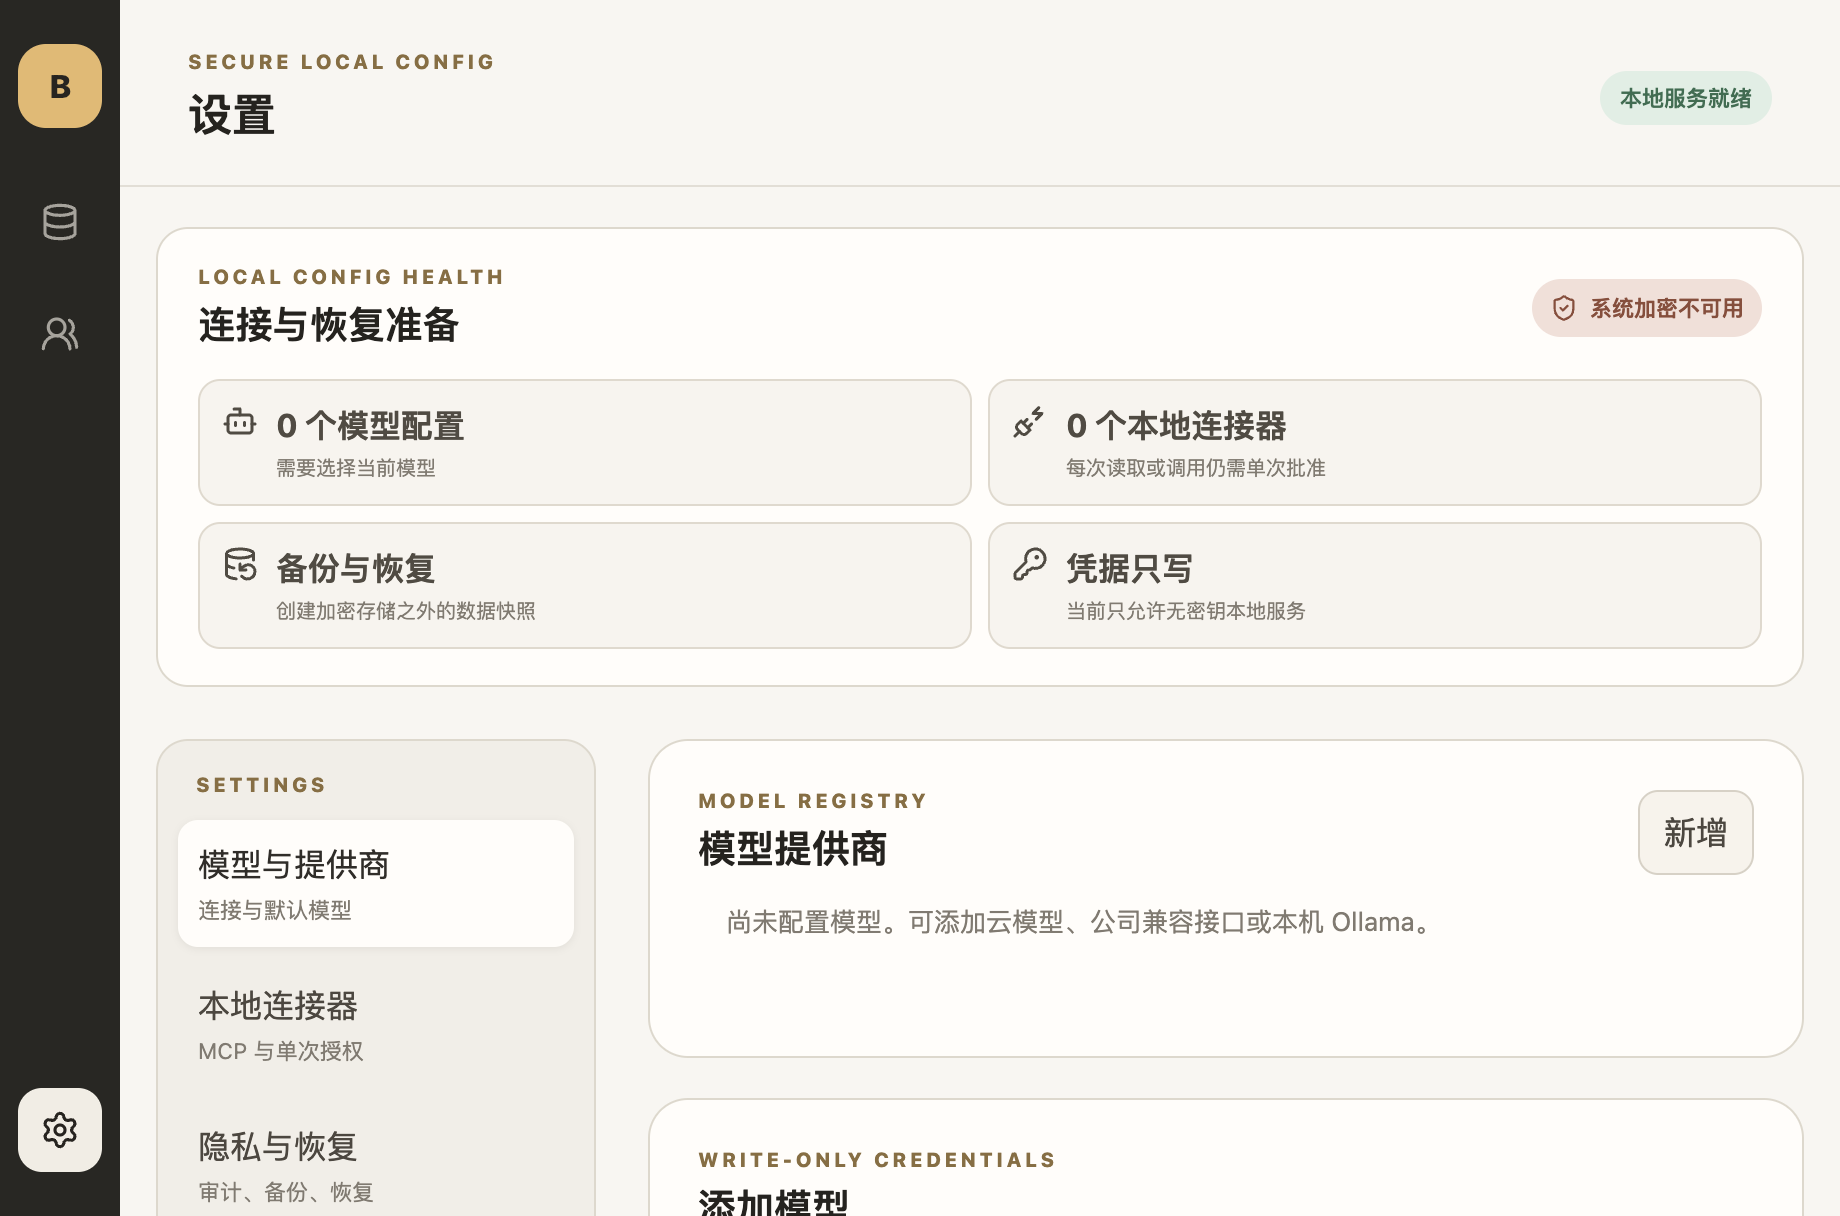
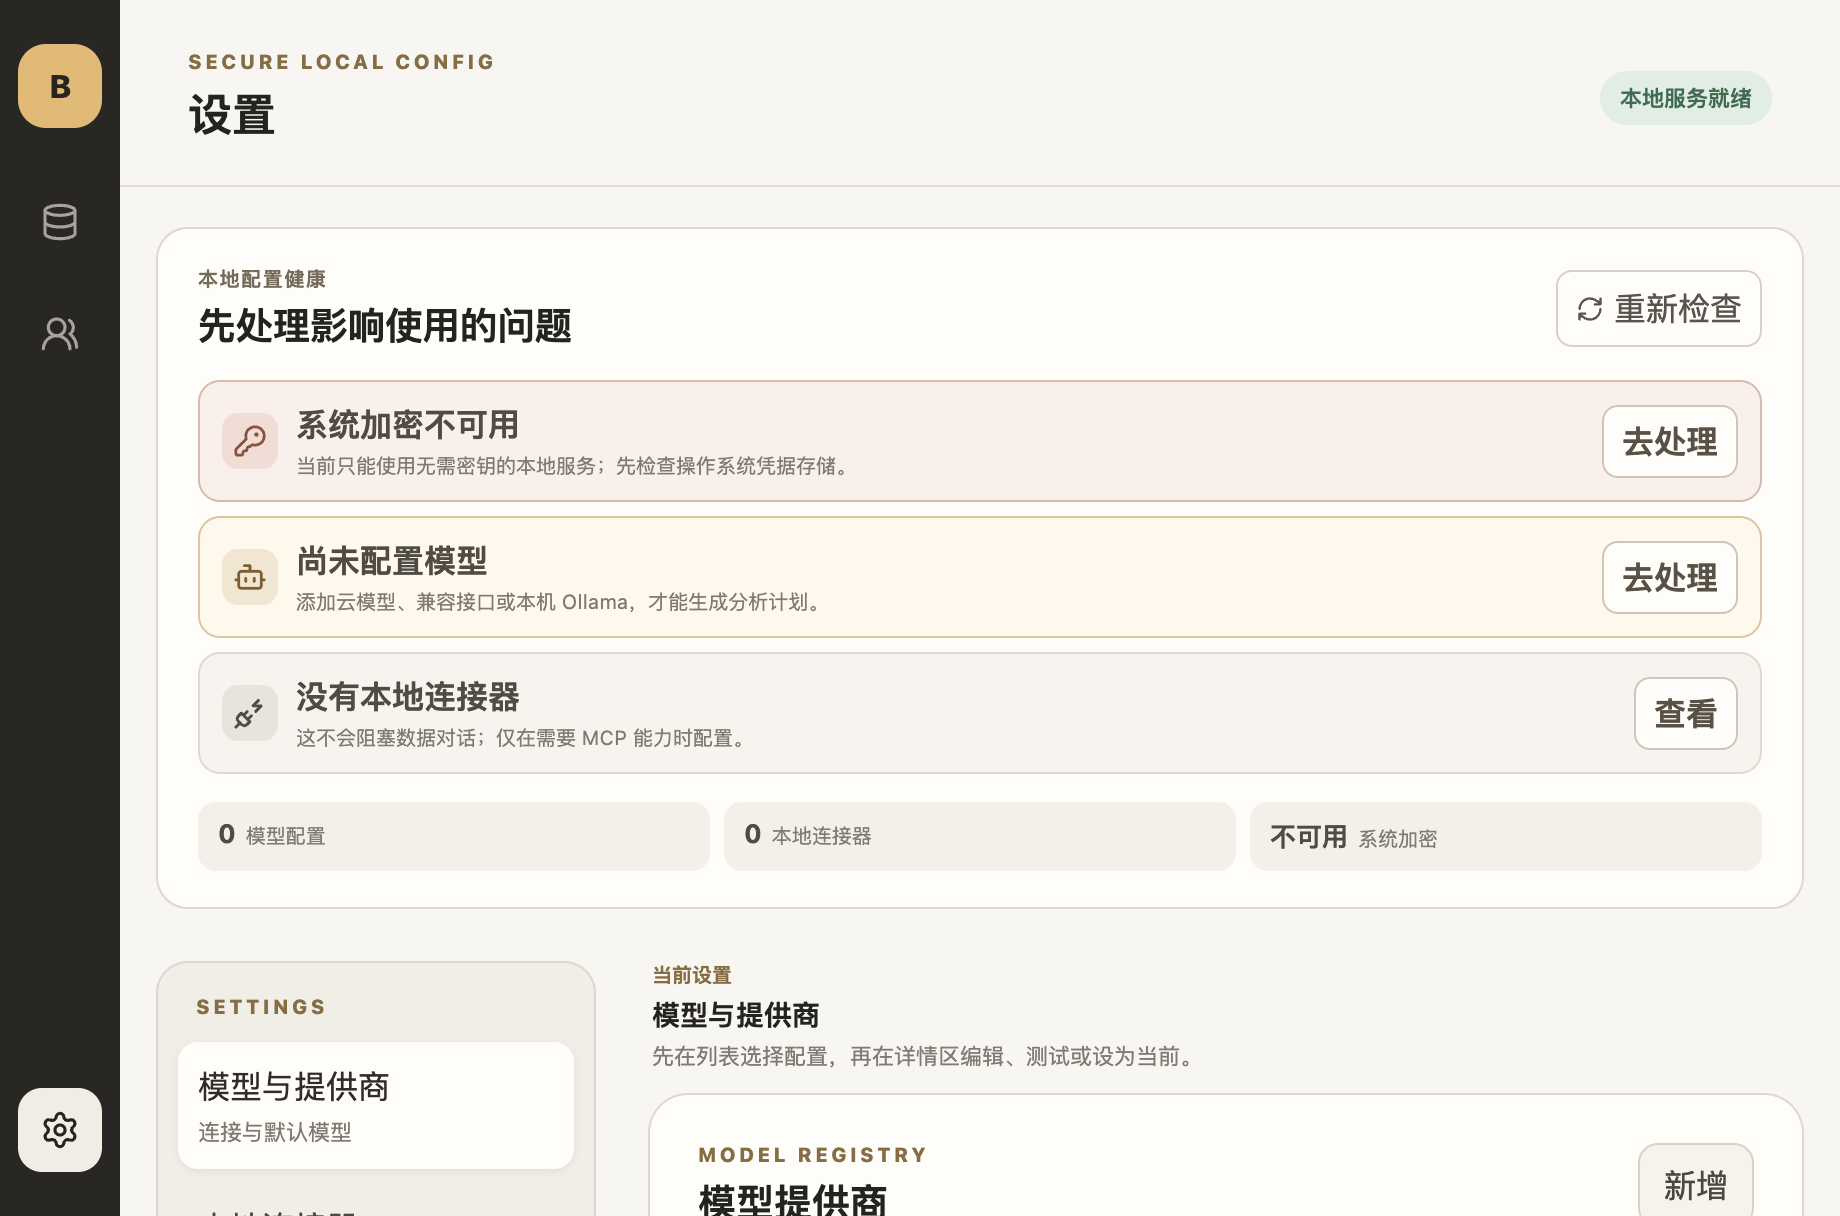
turn settings into recovery center

diff --git a/apps/desktop/src/renderer/SettingsHealthOverview.tsx b/apps/desktop/src/renderer/SettingsHealthOverview.tsx
@@ -1,35 +1,37 @@
-import { Bot, DatabaseBackup, KeyRound, PlugZap, ShieldCheck } from "lucide-react";
+import { Bot, KeyRound, PlugZap, RefreshCw, ShieldCheck } from "lucide-react";
 import { useEffect, useState } from "react";
 import type { McpConnectionRegistryState, ProviderRegistryState } from "../shared/product-api.js";
+import { deriveSettingsHealth, type SettingsHealthSection } from "./settings-health.js";
 
-type SettingsSection = "models" | "connectors" | "privacy";
-
-export function SettingsHealthOverview({ onNavigate }: { readonly onNavigate: (section: SettingsSection) => void }) {
+export function SettingsHealthOverview({ onNavigate }: { readonly onNavigate: (section: SettingsHealthSection) => void }) {
   const [providers, setProviders] = useState<ProviderRegistryState>();
   const [connections, setConnections] = useState<McpConnectionRegistryState>();
   const [error, setError] = useState<string>();
+  const [loading, setLoading] = useState(true);
 
-  useEffect(() => {
-    let active = true;
-    void Promise.all([window.bubu.providers.list(), window.bubu.mcp.list()]).then(([providerState, connectionState]) => {
-      if (!active) return;
+  async function load(): Promise<void> {
+    setLoading(true);
+    setError(undefined);
+    try {
+      const [providerState, connectionState] = await Promise.all([window.bubu.providers.list(), window.bubu.mcp.list()]);
       setProviders(providerState);
       setConnections(connectionState);
-    }).catch((reason: unknown) => {
-      if (active) setError(reason instanceof Error ? reason.message : "读取本地配置状态失败");
-    });
-    return () => { active = false; };
-  }, []);
+    } catch (reason) {
+      setError(reason instanceof Error ? reason.message : "读取本地配置状态失败");
+    } finally {
+      setLoading(false);
+    }
+  }
+
+  useEffect(() => { void load(); }, []);
 
   const encryptionAvailable = providers?.encryptionAvailable === true && connections?.encryptionAvailable === true;
+  const findings = deriveSettingsHealth({ encryptionAvailable, providerCount: providers?.providers.length ?? 0, hasActiveProvider: providers?.activeProviderId !== null && providers?.activeProviderId !== undefined, connectorCount: connections?.connections.length ?? 0 });
+  const navigateToFinding = (section: SettingsHealthSection | undefined) => { if (section) onNavigate(section); };
   return <section className="settings-health" aria-label="设置健康总览">
-    <header><div><p className="hero-kicker">LOCAL CONFIG HEALTH</p><h3>连接与恢复准备</h3></div><span className={encryptionAvailable ? "health-ready" : "health-warning"}><ShieldCheck size={14} />{encryptionAvailable ? "系统加密可用" : "系统加密不可用"}</span></header>
+    <header><div><p className="chat-context-label">本地配置健康</p><h3>先处理影响使用的问题</h3></div><button type="button" className="settings-health-refresh" onClick={() => void load()} disabled={loading}><RefreshCw size={14} />{loading ? "检查中" : "重新检查"}</button></header>
     {error && <p className="error-text">{error}</p>}
-    <div>
-      <button type="button" onClick={() => onNavigate("models")}><Bot size={18} /><span><strong>{providers?.providers.length ?? "—"} 个模型配置</strong><small>{providers?.activeProviderId ? "已有当前模型" : "需要选择当前模型"}</small></span></button>
-      <button type="button" onClick={() => onNavigate("connectors")}><PlugZap size={18} /><span><strong>{connections?.connections.length ?? "—"} 个本地连接器</strong><small>每次读取或调用仍需单次批准</small></span></button>
-      <button type="button" onClick={() => onNavigate("privacy")}><DatabaseBackup size={18} /><span><strong>备份与恢复</strong><small>创建加密存储之外的数据快照</small></span></button>
-      <div><KeyRound size={18} /><span><strong>凭据只写</strong><small>{encryptionAvailable ? "密钥可安全保存且无法读回" : "当前只允许无密钥本地服务"}</small></span></div>
-    </div>
+    {!loading && <ol className="settings-findings">{findings.map((finding) => <li className={`settings-finding settings-finding-${finding.severity}`} key={finding.id}><span>{finding.id === "provider" || finding.id === "active-provider" ? <Bot size={17} /> : finding.id === "connectors" ? <PlugZap size={17} /> : finding.id === "encryption" ? <KeyRound size={17} /> : <ShieldCheck size={17} />}</span><div><strong>{finding.title}</strong><small>{finding.detail}</small></div>{finding.section && <button type="button" onClick={() => navigateToFinding(finding.section)}>{finding.severity === "optional" ? "查看" : "去处理"}</button>}</li>)}</ol>}
+    <div className="settings-health-metrics"><span><strong>{providers?.providers.length ?? "—"}</strong>模型配置</span><span><strong>{connections?.connections.length ?? "—"}</strong>本地连接器</span><span><strong>{encryptionAvailable ? "可用" : "不可用"}</strong>系统加密</span></div>
   </section>;
 }

diff --git a/apps/desktop/src/renderer/styles.css b/apps/desktop/src/renderer/styles.css
@@ -338,15 +338,18 @@ td { max-width: 280px; overflow: hidden; text-overflow: ellipsis; color: #4d4841
 .settings-health { grid-column: 1 / -1; display: grid; gap: 14px; padding: 18px 20px; border: 1px solid #ded8cc; border-radius: 16px; background: #fffdf9; }
 .settings-health > header { display: flex; align-items: center; justify-content: space-between; gap: 18px; }
 .settings-health h3 { margin: 0; }
-.settings-health > header > span { display: inline-flex; align-items: center; gap: 6px; padding: 7px 9px; border-radius: 999px; font-size: 11px; font-weight: 700; }
-.settings-health .health-ready { color: #336d50; background: #dfeee4; }
-.settings-health .health-warning { color: #8e4b38; background: #f3dfd8; }
-.settings-health > div { display: grid; grid-template-columns: repeat(4, minmax(0, 1fr)); gap: 8px; }
-.settings-health > div > button, .settings-health > div > div { display: flex; align-items: flex-start; gap: 9px; min-width: 0; padding: 11px; border: 1px solid #e0d9cd; border-radius: 11px; text-align: left; color: #514b42; background: #f7f4ee; }
-.settings-health > div > button { cursor: pointer; }
-.settings-health > div > button:hover { border-color: #bcae98; background: #fffdf9; }
-.settings-health > div span { display: grid; gap: 3px; min-width: 0; }
-.settings-health > div small { font-size: 10px; line-height: 1.4; color: #817a70; }
+.settings-health-refresh { display: inline-flex; align-items: center; gap: 5px; min-height: 34px; padding: 7px 9px; border: 1px solid #d8d1c5; border-radius: 8px; color: #5b544b; background: #fffdf9; cursor: pointer; }
+.settings-findings { display: grid; gap: 7px; margin: 0; padding: 0; list-style: none; }
+.settings-finding { display: grid; grid-template-columns: 28px minmax(0, 1fr) auto; align-items: center; gap: 9px; padding: 10px 11px; border: 1px solid #e0d9cd; border-radius: 11px; color: #514b42; background: #f7f4ee; }
+.settings-finding > span { display: grid; place-items: center; width: 28px; height: 28px; border-radius: 8px; background: #e9e4db; }
+.settings-finding > div { display: grid; gap: 2px; min-width: 0; }
+.settings-finding small { font-size: 10px; line-height: 1.45; color: #817a70; }
+.settings-finding button { min-height: 32px; padding: 6px 9px; border: 1px solid #cfc5b7; border-radius: 8px; font-weight: 700; color: #5a5044; background: #fffdf9; cursor: pointer; }
+.settings-finding-blocker { border-color: #e0b7ac; background: #fbefeb; }.settings-finding-blocker > span { color: #914f3d; background: #f2dcd5; }
+.settings-finding-action { border-color: #ddc69f; background: #fff8eb; }.settings-finding-action > span { color: #805d27; background: #f2e5cf; }
+.settings-finding-ready { border-color: #bad0bf; background: #eef6ef; }.settings-finding-ready > span { color: #397052; background: #daeade; }
+.settings-health-metrics { display: grid; grid-template-columns: repeat(3, minmax(0, 1fr)); gap: 7px; }
+.settings-health-metrics span { display: flex; align-items: baseline; gap: 5px; padding: 8px 10px; border-radius: 9px; font-size: 10px; color: #817a70; background: #f3f0e9; }.settings-health-metrics strong { font-size: 13px; color: #514b42; }
 .recovery-guidance { display: grid; gap: 8px; padding: 14px; border-radius: 12px; background: #f1eee7; }
 .recovery-guidance ol { display: grid; gap: 5px; margin: 0; padding-left: 20px; color: #625c53; }
 .recovery-guidance p { margin: 0; color: #7a7165; }
@@ -356,6 +359,7 @@ td { max-width: 280px; overflow: hidden; text-overflow: ellipsis; color: #4d4841
 .settings-nav button small { font-size: 11px; color: #817a70; }
 .settings-nav .settings-nav-active { color: #302d28; background: #fffdf9; box-shadow: 0 1px 4px rgba(44,39,30,.08); }
 .settings-content { min-width: 0; }
+.settings-content-context { display: grid; gap: 3px; margin-bottom: 10px; padding: 0 2px; }.settings-content-context small { font-size: 10px; font-weight: 800; color: #8b6a39; }.settings-content-context strong { font-size: 14px; }.settings-content-context span { font-size: 11px; line-height: 1.45; color: #817a70; }
 .settings-content > .data-protection-panel { margin-top: 0; }
 .provider-list-panel, .provider-form { min-width: 0; padding: 24px; border: 1px solid #ded8cc; border-radius: 20px; background: #fffdf9; }
 .settings-section-header { display: flex; align-items: center; justify-content: space-between; gap: 16px; }
@@ -587,7 +591,7 @@ td { max-width: 280px; overflow: hidden; text-overflow: ellipsis; color: #4d4841
   .conversation { padding: 20px 18px; }
   .conversation-workbench { height: calc(100vh - 190px); min-height: 460px; }
   .dataset-summary h3 { font-size: 18px; }
-  .settings-health > div { grid-template-columns: repeat(2, minmax(0, 1fr)); }
+  .settings-health-metrics { grid-template-columns: repeat(3, minmax(0, 1fr)); }
 }
 
 @media (prefers-reduced-motion: reduce) {

diff --git a/apps/desktop/src/renderer/settings-health.ts b/apps/desktop/src/renderer/settings-health.ts
@@ -1,0 +1,19 @@
+export type SettingsHealthSection = "models" | "connectors" | "privacy";
+
+export interface SettingsHealthFinding {
+  readonly id: "encryption" | "provider" | "active-provider" | "connectors" | "ready";
+  readonly severity: "blocker" | "action" | "optional" | "ready";
+  readonly title: string;
+  readonly detail: string;
+  readonly section?: SettingsHealthSection;
+}
+
+export function deriveSettingsHealth(input: { readonly encryptionAvailable: boolean; readonly providerCount: number; readonly hasActiveProvider: boolean; readonly connectorCount: number }): readonly SettingsHealthFinding[] {
+  const findings: SettingsHealthFinding[] = [];
+  if (!input.encryptionAvailable) findings.push({ id: "encryption", severity: "blocker", title: "系统加密不可用", detail: "当前只能使用无需密钥的本地服务；先检查操作系统凭据存储。", section: "privacy" });
+  if (input.providerCount === 0) findings.push({ id: "provider", severity: "action", title: "尚未配置模型", detail: "添加云模型、兼容接口或本机 Ollama，才能生成分析计划。", section: "models" });
+  else if (!input.hasActiveProvider) findings.push({ id: "active-provider", severity: "action", title: "需要选择当前模型", detail: "已有配置但尚未指定用于新任务的模型。", section: "models" });
+  if (input.connectorCount === 0) findings.push({ id: "connectors", severity: "optional", title: "没有本地连接器", detail: "这不会阻塞数据对话；仅在需要 MCP 能力时配置。", section: "connectors" });
+  if (findings.length === 0) findings.push({ id: "ready", severity: "ready", title: "关键配置已就绪", detail: "当前模型、系统加密与本地连接器均可继续使用。" });
+  return findings;
+}

diff --git a/apps/desktop/src/renderer/settings-health.test.ts b/apps/desktop/src/renderer/settings-health.test.ts
@@ -1,0 +1,13 @@
+import { describe, expect, it } from "vitest";
+import { deriveSettingsHealth } from "./settings-health.js";
+
+describe("deriveSettingsHealth", () => {
+  it("orders blockers before required and optional setup", () => {
+    expect(deriveSettingsHealth({ encryptionAvailable: false, providerCount: 0, hasActiveProvider: false, connectorCount: 0 }).map(({ id }) => id)).toEqual(["encryption", "provider", "connectors"]);
+  });
+
+  it("distinguishes a missing active model and a ready configuration", () => {
+    expect(deriveSettingsHealth({ encryptionAvailable: true, providerCount: 1, hasActiveProvider: false, connectorCount: 1 })[0]?.id).toBe("active-provider");
+    expect(deriveSettingsHealth({ encryptionAvailable: true, providerCount: 1, hasActiveProvider: true, connectorCount: 1 })).toMatchObject([{ id: "ready", severity: "ready" }]);
+  });
+});

diff --git a/apps/desktop/src/renderer/App.tsx b/apps/desktop/src/renderer/App.tsx
@@ -384,11 +384,12 @@ export function App() {
             <SettingsHealthOverview onNavigate={setSettingsSection} />
             <nav className="settings-nav" aria-label="设置分类">
               <p className="hero-kicker">SETTINGS</p>
-              <button type="button" className={settingsSection === "models" ? "settings-nav-active" : ""} aria-pressed={settingsSection === "models"} onClick={() => setSettingsSection("models")}>模型与提供商<small>连接与默认模型</small></button>
-              <button type="button" className={settingsSection === "connectors" ? "settings-nav-active" : ""} aria-pressed={settingsSection === "connectors"} onClick={() => setSettingsSection("connectors")}>本地连接器<small>MCP 与单次授权</small></button>
-              <button type="button" className={settingsSection === "privacy" ? "settings-nav-active" : ""} aria-pressed={settingsSection === "privacy"} onClick={() => setSettingsSection("privacy")}>隐私与恢复<small>审计、备份、恢复</small></button>
+              <button type="button" className={settingsSection === "models" ? "settings-nav-active" : ""} aria-current={settingsSection === "models" ? "page" : undefined} onClick={() => setSettingsSection("models")}>模型与提供商<small>连接与默认模型</small></button>
+              <button type="button" className={settingsSection === "connectors" ? "settings-nav-active" : ""} aria-current={settingsSection === "connectors" ? "page" : undefined} onClick={() => setSettingsSection("connectors")}>本地连接器<small>MCP 与单次授权</small></button>
+              <button type="button" className={settingsSection === "privacy" ? "settings-nav-active" : ""} aria-current={settingsSection === "privacy" ? "page" : undefined} onClick={() => setSettingsSection("privacy")}>隐私与恢复<small>审计、备份、恢复</small></button>
             </nav>
             <div className="settings-content">
+              <header className="settings-content-context"><small>当前设置</small><strong>{settingsSection === "models" ? "模型与提供商" : settingsSection === "connectors" ? "本地连接器" : "隐私与恢复"}</strong><span>{settingsSection === "models" ? "先在列表选择配置，再在详情区编辑、测试或设为当前。" : settingsSection === "connectors" ? "保存连接不会启动进程；发现、读取与调用仍分别批准。" : "查看本地审计，并创建或恢复独立的数据快照。"}</span></header>
               {settingsSection === "models" && <ProviderSettings />}
               {settingsSection === "connectors" && <McpSettings />}
               {settingsSection === "privacy" && <DataProtectionPanel onRestored={reloadCatalogAfterRestore} />}

diff --git a/apps/desktop/src/main.ts b/apps/desktop/src/main.ts
@@ -276,12 +276,13 @@ async function verifySmokeRenderer(
         return resolve({ ok: false, missing: ["模型设置按钮"] });
       }
       settingsButton.click();
-      const expected = ["模型提供商", "添加模型", "Base URL", "模型名称", "API 密钥", "安全保存配置"];
+      const expected = ["先处理影响使用的问题", "重新检查", "模型提供商", "添加模型", "Base URL", "模型名称", "API 密钥", "安全保存配置"];
       const deadline = Date.now() + 5000;
       const inspect = () => {
         const contents = document.body.innerText;
         const missing = expected.filter((value) => !contents.includes(value));
-        if (missing.length === 0) return resolve({ ok: true, missing: [] });
+        const currentSection = document.querySelector('.settings-nav button[aria-current="page"]');
+        if (missing.length === 0 && currentSection?.textContent?.includes("模型与提供商")) return resolve({ ok: true, missing: [] });
         if (Date.now() >= deadline) return resolve({ ok: false, missing });
         setTimeout(inspect, 50);
       };

diff --git a/docs/product/settings-health.md b/docs/product/settings-health.md
@@ -1,0 +1,7 @@
+# Settings health and recovery center
+
+Settings is an operational recovery surface, not a catalogue of unrelated forms. The top health check derives ordered findings from typed local state: unavailable system encryption is a blocker, missing or unselected model configuration is required action, and an empty MCP connector registry is optional. Each finding names the consequence and routes to the owning settings section.
+
+The user can rerun the check after changing configuration. Below it, the stable category list uses `aria-current` and the detail area states what the selected section owns. Model settings preserve a list–detail workflow; saving, selecting, testing, and deleting remain distinct actions. Saving an MCP connection never implies that the process has started. Privacy and recovery keeps audit, backup, and restore together without implying that a backup exists when BuBu cannot prove it.
+
+Capability truth remains strict: operating-system encryption availability is reported from the desktop registry, provider and connector counts come from parsed local stores, and recovery readiness is never inferred from a decorative green state.

diff --git a/docs/README.md b/docs/README.md
@@ -6,6 +6,7 @@ Documentation describes the current product only when it agrees with runtime beh
 
 - [Product and UI/UX constraints](product/ui-ux-guidelines.md)
 - [Conversation workbench](product/conversation-workbench.md)
+- [Settings health and recovery center](product/settings-health.md)
 - [Conversation workbench eight-stage completion](plans/2026-07-20-conversation-workbench-eight-stage-completion.md)
 - [BuBu productization execution contract](plans/2026-07-20-bubu-productization-execution.md)
 - [Local data kernel](architecture/local-data-kernel.md)

diff --git a/docs/product/ui-ux-guidelines.md b/docs/product/ui-ux-guidelines.md
@@ -20,6 +20,7 @@ The primary journey is import → inspect → ask → review → approve → use
 - The workspace header states the active entity and current product state. Primary actions belong near the object they affect; destructive actions require explicit language and confirmation.
 - Result actions state their scope. “复制” and “导出当前视图” use the Artifact table after its current filter/sort; source-dataset export remains a separate dataset operation. Pinned state is local UI orientation, not a new data copy or audit claim.
 - A chart is shown only when a pure suitability rule can explain it without inventing aggregation or hiding high cardinality. The UI always states the recommendation reason and supplies the exact plotted points as a table. Local HTML reports remain bounded, static, escaped, and free of hidden source rows.
+- Settings begins with ordered, actionable findings rather than equal-weight status tiles. Blockers, required setup, and optional integrations have different language; each routes to a stable list–detail section, and the user can rerun diagnostics after a change.
 - At the supported packaged smoke viewport of 920 × 640, every primary journey must remain readable without horizontal page overflow. Dense tables, schema, JSON, and audit content may scroll inside bounded regions.
 
 ## State and copy